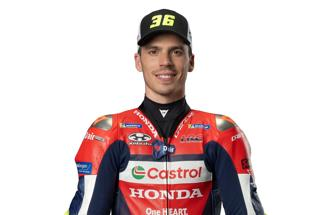
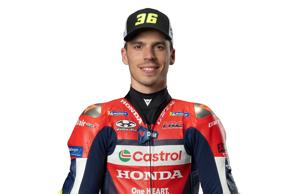
Cambios dimension imagenes

diff --git a/piloto.html b/piloto.html
@@ -43,8 +43,8 @@
 
     <!--Imagen de Joan Mir TODO: redimensionar mejor-->
     <picture>
-        <source srcset="multimedia/piloto/joan-mir-movil.jpg" media="(max-width: 465px)" width="324" height="215"/>
-        <source srcset="multimedia/piloto/joan-mir-tablet.jpg" media="(max-width: 799px)" width="750" height="498"/>
+        <source srcset="multimedia/piloto/joan-mir-movil.jpg" media="(max-width: 465px)" width="292" height="194"/>
+        <source srcset="multimedia/piloto/joan-mir-tablet.jpg" media="(max-width: 799px)" width="675" height="448"/>
         <source srcset="multimedia/piloto/joan-mir.jpg" media="(min-width: 800px)" width="1200" height="800"/>
         <img src="multimedia/piloto/joan-mir.jpg" alt = "Imagen de Joan Mir" width="1200" height="800"/>
     </picture>

diff --git a/multimedia/piloto/resize.py b/multimedia/piloto/resize.py
@@ -1,0 +1,13 @@
+from PIL import Image
+
+# Abre la imagen
+image_path = "joan-mir.jpg"  # Cambia esto por la ruta de tu imagen
+img = Image.open(image_path)
+
+# Redimensiona la imagen (por ejemplo, a 800x600 píxeles)
+new_width = 675
+new_height = 448
+resized_img = img.resize((new_width, new_height))
+
+# Guarda la nueva imagen redimensionada
+resized_img.save("joan-mir-tablet.jpg")  # El nombre del archivo nuevo
